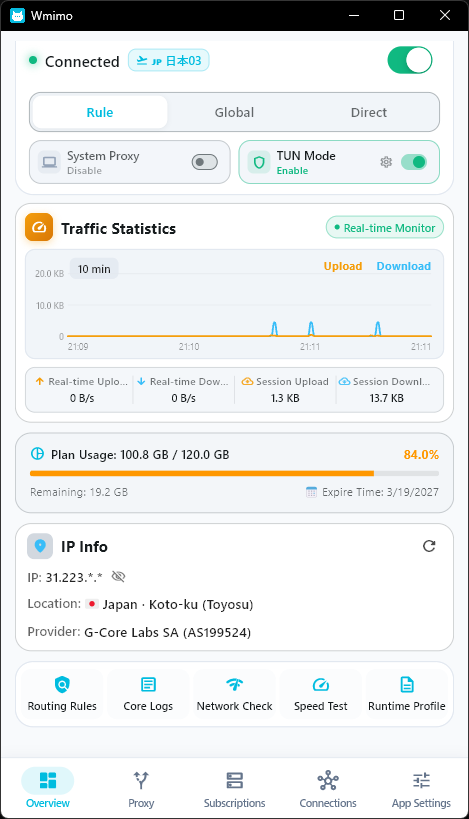
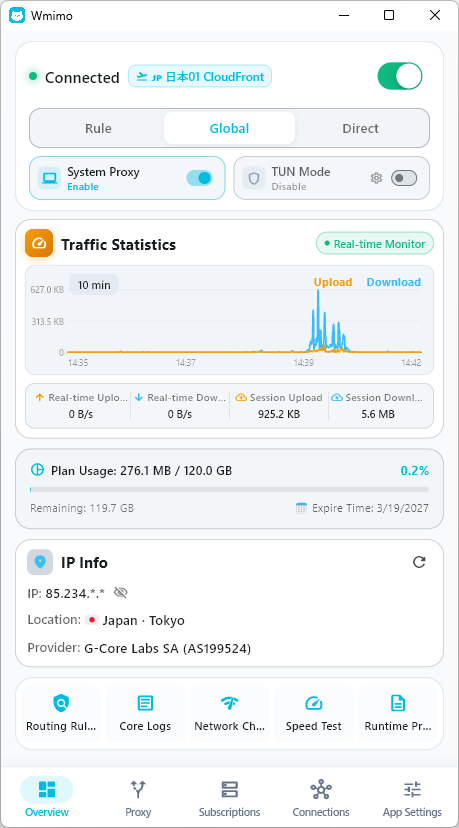
docs(readme): update preview showcase with dual light and dark theme screenshots

diff --git a/tool/generate_readmes.dart b/tool/generate_readmes.dart
@@ -30,9 +30,11 @@ $langBar
   </p>
 
   <br/>
-  <img src="docs/preview.png" alt="Wmimo UI Preview" width="380" />
-  <br/>
-  <sub><em>✨ Sleek 18px micro-card aesthetic, real-time traffic monitor, and comprehensive network diagnostics</em></sub>
+  <p align="center">
+    <img src="docs/preview_light.png" alt="Wmimo Light Theme" width="350" />
+    <img src="docs/preview_dark.png" alt="Wmimo Dark Theme" width="350" />
+  </p>
+  <sub><em>✨ Sleek 18px micro-card aesthetic, real-time traffic monitor, and comprehensive network diagnostics (Light & Dark themes)</em></sub>
 </div>
 
 ---
@@ -180,9 +182,11 @@ $langBar
   </p>
 
   <br/>
-  <img src="docs/preview.png" alt="Wmimo 界面预览" width="380" />
-  <br/>
-  <sub><em>✨ 18px 微卡片设计美学、实时平滑流量监控与丰富网络诊断工具</em></sub>
+  <p align="center">
+    <img src="docs/preview_light.png" alt="Wmimo 浅色主题" width="350" />
+    <img src="docs/preview_dark.png" alt="Wmimo 深色主题" width="350" />
+  </p>
+  <sub><em>✨ 18px 微卡片设计美学、实时平滑流量监控与丰富网络诊断工具（明亮 & 暗黑双模式）</em></sub>
 </div>
 
 ---
@@ -333,9 +337,11 @@ $langBar
   </p>
 
   <br/>
-  <img src="docs/preview.png" alt="Wmimo 介面預覽" width="380" />
-  <br/>
-  <sub><em>✨ 18px 微卡片設計美學、即時平滑流量監控與豐富網路診斷工具</em></sub>
+  <p align="center">
+    <img src="docs/preview_light.png" alt="Wmimo 淺色主題" width="350" />
+    <img src="docs/preview_dark.png" alt="Wmimo 深色主題" width="350" />
+  </p>
+  <sub><em>✨ 18px 微卡片設計美學、即時平滑流量監控與豐富網路診斷工具（明亮 & 暗黑雙模式）</em></sub>
 </div>
 
 ---
@@ -394,9 +400,11 @@ $langBar
   </p>
 
   <br/>
-  <img src="docs/preview.png" alt="Wmimo プレビュー" width="380" />
-  <br/>
-  <sub><em>✨ 洗練された 18px マイクロカード UI、リアルタイムトラフィック監視、豊富なネットワーク診断ツール</em></sub>
+  <p align="center">
+    <img src="docs/preview_light.png" alt="Wmimo ライトテーマ" width="350" />
+    <img src="docs/preview_dark.png" alt="Wmimo ダークテーマ" width="350" />
+  </p>
+  <sub><em>✨ 洗練された 18px マイクロカード UI、リアルタイムトラフィック監視、豊富なネットワーク診断ツール（ライト＆ダークテーマ）</em></sub>
 </div>
 
 ---
@@ -460,9 +468,11 @@ $langBar
   </p>
 
   <br/>
-  <img src="docs/preview.png" alt="Wmimo 미리보기" width="380" />
-  <br/>
-  <sub><em>✨ 세련된 18px 마이크로 카드 UI, 실시간 트래픽 모니터링 및 네트워크 진단 도구</em></sub>
+  <p align="center">
+    <img src="docs/preview_light.png" alt="Wmimo 라이트 모드" width="350" />
+    <img src="docs/preview_dark.png" alt="Wmimo 다크 모드" width="350" />
+  </p>
+  <sub><em>✨ 세련된 18px 마이크로 카드 UI, 실시간 트래픽 모니터링 및 네트워크 진단 도구 (라이트 & 다크 모드)</em></sub>
 </div>
 
 ---
@@ -526,9 +536,11 @@ $langBar
   </p>
 
   <br/>
-  <img src="docs/preview.png" alt="Wmimo Интерфейс" width="380" />
-  <br/>
-  <sub><em>✨ Эстетика микро-карточек 18px, мониторинг трафика в реальном времени и диагностика сети</em></sub>
+  <p align="center">
+    <img src="docs/preview_light.png" alt="Wmimo Светлая тема" width="350" />
+    <img src="docs/preview_dark.png" alt="Wmimo Темная тема" width="350" />
+  </p>
+  <sub><em>✨ Эстетика микро-карточек 18px, мониторинг трафика в реальном времени и диагностика сети (Светлая и темная темы)</em></sub>
 </div>
 
 ---
@@ -581,9 +593,11 @@ $langBar
   </p>
 
   <br/>
-  <img src="docs/preview.png" alt="Wmimo Vista Previa" width="380" />
-  <br/>
-  <sub><em>✨ Diseño moderno de micro-tarjetas de 18px, monitoreo de tráfico en tiempo real y herramientas de diagnóstico</em></sub>
+  <p align="center">
+    <img src="docs/preview_light.png" alt="Wmimo Tema Claro" width="350" />
+    <img src="docs/preview_dark.png" alt="Wmimo Tema Oscuro" width="350" />
+  </p>
+  <sub><em>✨ Diseño moderno de micro-tarjetas de 18px, monitoreo de tráfico en tiempo real y herramientas de diagnóstico (Temas Claro y Oscuro)</em></sub>
 </div>
 
 ---
@@ -636,9 +650,11 @@ $langBar
   </p>
 
   <br/>
-  <img src="docs/preview.png" alt="معاينة Wmimo" width="380" />
-  <br/>
-  <sub><em>✨ واجهة عصرية ببطاقات مصغرة 18px، مراقبة حركة المرور في الوقت الفعلي وأدوات تشخيص الشبكة</em></sub>
+  <p align="center">
+    <img src="docs/preview_light.png" alt="Wmimo المظهر الفاتح" width="350" />
+    <img src="docs/preview_dark.png" alt="Wmimo المظهر الداكن" width="350" />
+  </p>
+  <sub><em>✨ واجهة عصرية ببطاقات مصغرة 18px، مراقبة حركة المرور في الوقت الفعلي وأدوات تشخيص الشبكة (المظهر الفاتح والداكن)</em></sub>
 </div>
 
 ---
@@ -691,9 +707,11 @@ $langBar
   </p>
 
   <br/>
-  <img src="docs/preview.png" alt="پیشنمایش Wmimo" width="380" />
-  <br/>
-  <sub><em>✨ طراحی کارتهای میکرو ۱۸ پیکسلی، مانیتورینگ بلادرنگ ترافیک و ابزارهای تشخیص شبکه</em></sub>
+  <p align="center">
+    <img src="docs/preview_light.png" alt="Wmimo تم روشن" width="350" />
+    <img src="docs/preview_dark.png" alt="Wmimo تم تاریک" width="350" />
+  </p>
+  <sub><em>✨ طراحی کارتهای میکرو ۱۸ پیکسلی، مانیتورینگ بلادرنگ ترافیک و ابزارهای تشخیص شبکه (تم روشن و تاریک)</em></sub>
 </div>
 
 ---

diff --git a/README.ru.md b/README.ru.md
@@ -23,9 +23,11 @@
   </p>
 
   <br/>
-  <img src="docs/preview.png" alt="Wmimo Интерфейс" width="380" />
-  <br/>
-  <sub><em>✨ Эстетика микро-карточек 18px, мониторинг трафика в реальном времени и диагностика сети</em></sub>
+  <p align="center">
+    <img src="docs/preview_light.png" alt="Wmimo Светлая тема" width="350" />
+    <img src="docs/preview_dark.png" alt="Wmimo Темная тема" width="350" />
+  </p>
+  <sub><em>✨ Эстетика микро-карточек 18px, мониторинг трафика в реальном времени и диагностика сети (Светлая и темная темы)</em></sub>
 </div>
 
 ---

diff --git a/README.ar.md b/README.ar.md
@@ -23,9 +23,11 @@
   </p>
 
   <br/>
-  <img src="docs/preview.png" alt="معاينة Wmimo" width="380" />
-  <br/>
-  <sub><em>✨ واجهة عصرية ببطاقات مصغرة 18px، مراقبة حركة المرور في الوقت الفعلي وأدوات تشخيص الشبكة</em></sub>
+  <p align="center">
+    <img src="docs/preview_light.png" alt="Wmimo المظهر الفاتح" width="350" />
+    <img src="docs/preview_dark.png" alt="Wmimo المظهر الداكن" width="350" />
+  </p>
+  <sub><em>✨ واجهة عصرية ببطاقات مصغرة 18px، مراقبة حركة المرور في الوقت الفعلي وأدوات تشخيص الشبكة (المظهر الفاتح والداكن)</em></sub>
 </div>
 
 ---

diff --git a/README.fa.md b/README.fa.md
@@ -23,9 +23,11 @@
   </p>
 
   <br/>
-  <img src="docs/preview.png" alt="پیشنمایش Wmimo" width="380" />
-  <br/>
-  <sub><em>✨ طراحی کارتهای میکرو ۱۸ پیکسلی، مانیتورینگ بلادرنگ ترافیک و ابزارهای تشخیص شبکه</em></sub>
+  <p align="center">
+    <img src="docs/preview_light.png" alt="Wmimo تم روشن" width="350" />
+    <img src="docs/preview_dark.png" alt="Wmimo تم تاریک" width="350" />
+  </p>
+  <sub><em>✨ طراحی کارتهای میکرو ۱۸ پیکسلی، مانیتورینگ بلادرنگ ترافیک و ابزارهای تشخیص شبکه (تم روشن و تاریک)</em></sub>
 </div>
 
 ---

diff --git a/README.ja.md b/README.ja.md
@@ -23,9 +23,11 @@
   </p>
 
   <br/>
-  <img src="docs/preview.png" alt="Wmimo プレビュー" width="380" />
-  <br/>
-  <sub><em>✨ 洗練された 18px マイクロカード UI、リアルタイムトラフィック監視、豊富なネットワーク診断ツール</em></sub>
+  <p align="center">
+    <img src="docs/preview_light.png" alt="Wmimo ライトテーマ" width="350" />
+    <img src="docs/preview_dark.png" alt="Wmimo ダークテーマ" width="350" />
+  </p>
+  <sub><em>✨ 洗練された 18px マイクロカード UI、リアルタイムトラフィック監視、豊富なネットワーク診断ツール（ライト＆ダークテーマ）</em></sub>
 </div>
 
 ---

diff --git a/README.es.md b/README.es.md
@@ -23,9 +23,11 @@
   </p>
 
   <br/>
-  <img src="docs/preview.png" alt="Wmimo Vista Previa" width="380" />
-  <br/>
-  <sub><em>✨ Diseño moderno de micro-tarjetas de 18px, monitoreo de tráfico en tiempo real y herramientas de diagnóstico</em></sub>
+  <p align="center">
+    <img src="docs/preview_light.png" alt="Wmimo Tema Claro" width="350" />
+    <img src="docs/preview_dark.png" alt="Wmimo Tema Oscuro" width="350" />
+  </p>
+  <sub><em>✨ Diseño moderno de micro-tarjetas de 18px, monitoreo de tráfico en tiempo real y herramientas de diagnóstico (Temas Claro y Oscuro)</em></sub>
 </div>
 
 ---

diff --git a/README.ko.md b/README.ko.md
@@ -23,9 +23,11 @@
   </p>
 
   <br/>
-  <img src="docs/preview.png" alt="Wmimo 미리보기" width="380" />
-  <br/>
-  <sub><em>✨ 세련된 18px 마이크로 카드 UI, 실시간 트래픽 모니터링 및 네트워크 진단 도구</em></sub>
+  <p align="center">
+    <img src="docs/preview_light.png" alt="Wmimo 라이트 모드" width="350" />
+    <img src="docs/preview_dark.png" alt="Wmimo 다크 모드" width="350" />
+  </p>
+  <sub><em>✨ 세련된 18px 마이크로 카드 UI, 실시간 트래픽 모니터링 및 네트워크 진단 도구 (라이트 & 다크 모드)</em></sub>
 </div>
 
 ---

diff --git a/README.md b/README.md
@@ -23,9 +23,11 @@
   </p>
 
   <br/>
-  <img src="docs/preview.png" alt="Wmimo UI Preview" width="380" />
-  <br/>
-  <sub><em>✨ Sleek 18px micro-card aesthetic, real-time traffic monitor, and comprehensive network diagnostics</em></sub>
+  <p align="center">
+    <img src="docs/preview_light.png" alt="Wmimo Light Theme" width="350" />
+    <img src="docs/preview_dark.png" alt="Wmimo Dark Theme" width="350" />
+  </p>
+  <sub><em>✨ Sleek 18px micro-card aesthetic, real-time traffic monitor, and comprehensive network diagnostics (Light & Dark themes)</em></sub>
 </div>
 
 ---

diff --git a/README.zh-CN.md b/README.zh-CN.md
@@ -23,9 +23,11 @@
   </p>
 
   <br/>
-  <img src="docs/preview.png" alt="Wmimo 界面预览" width="380" />
-  <br/>
-  <sub><em>✨ 18px 微卡片设计美学、实时平滑流量监控与丰富网络诊断工具</em></sub>
+  <p align="center">
+    <img src="docs/preview_light.png" alt="Wmimo 浅色主题" width="350" />
+    <img src="docs/preview_dark.png" alt="Wmimo 深色主题" width="350" />
+  </p>
+  <sub><em>✨ 18px 微卡片设计美学、实时平滑流量监控与丰富网络诊断工具（明亮 & 暗黑双模式）</em></sub>
 </div>
 
 ---

diff --git a/README.zh-TW.md b/README.zh-TW.md
@@ -23,9 +23,11 @@
   </p>
 
   <br/>
-  <img src="docs/preview.png" alt="Wmimo 介面預覽" width="380" />
-  <br/>
-  <sub><em>✨ 18px 微卡片設計美學、即時平滑流量監控與豐富網路診斷工具</em></sub>
+  <p align="center">
+    <img src="docs/preview_light.png" alt="Wmimo 淺色主題" width="350" />
+    <img src="docs/preview_dark.png" alt="Wmimo 深色主題" width="350" />
+  </p>
+  <sub><em>✨ 18px 微卡片設計美學、即時平滑流量監控與豐富網路診斷工具（明亮 & 暗黑雙模式）</em></sub>
 </div>
 
 ---
